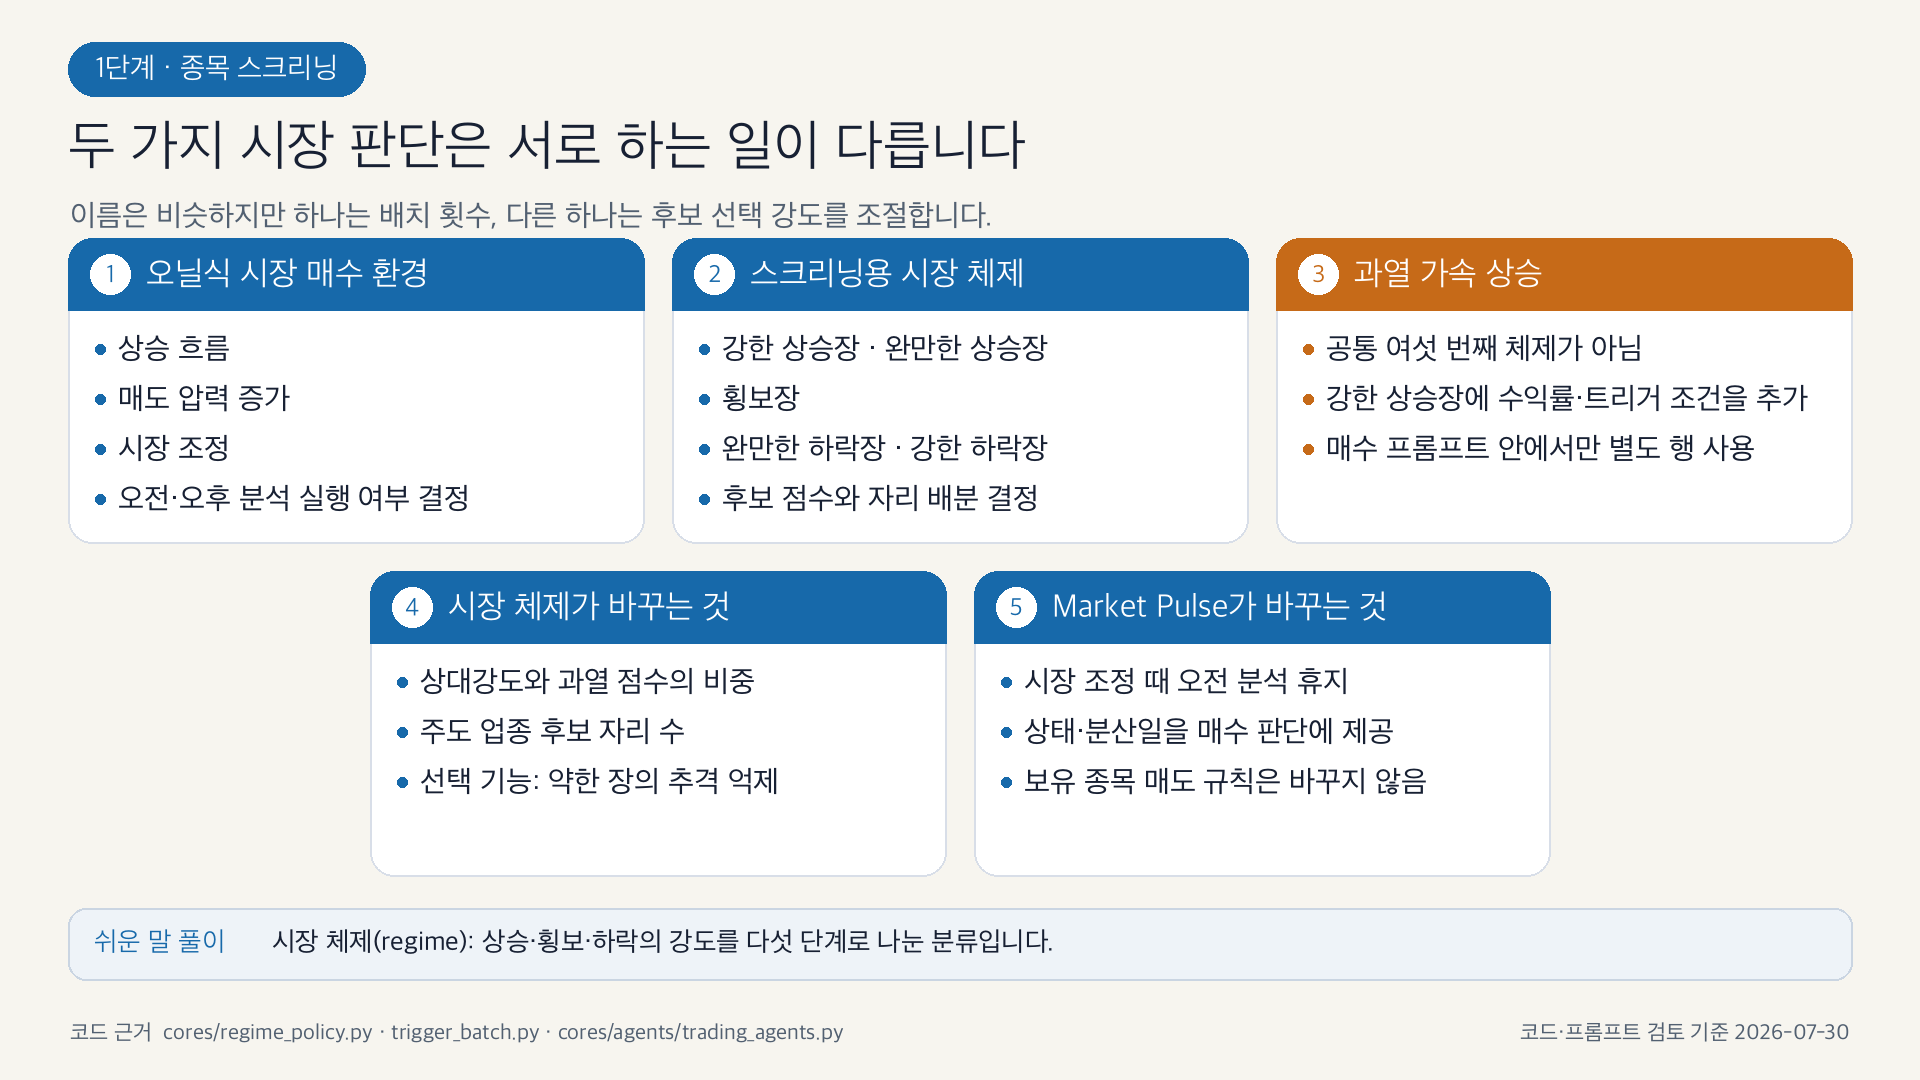
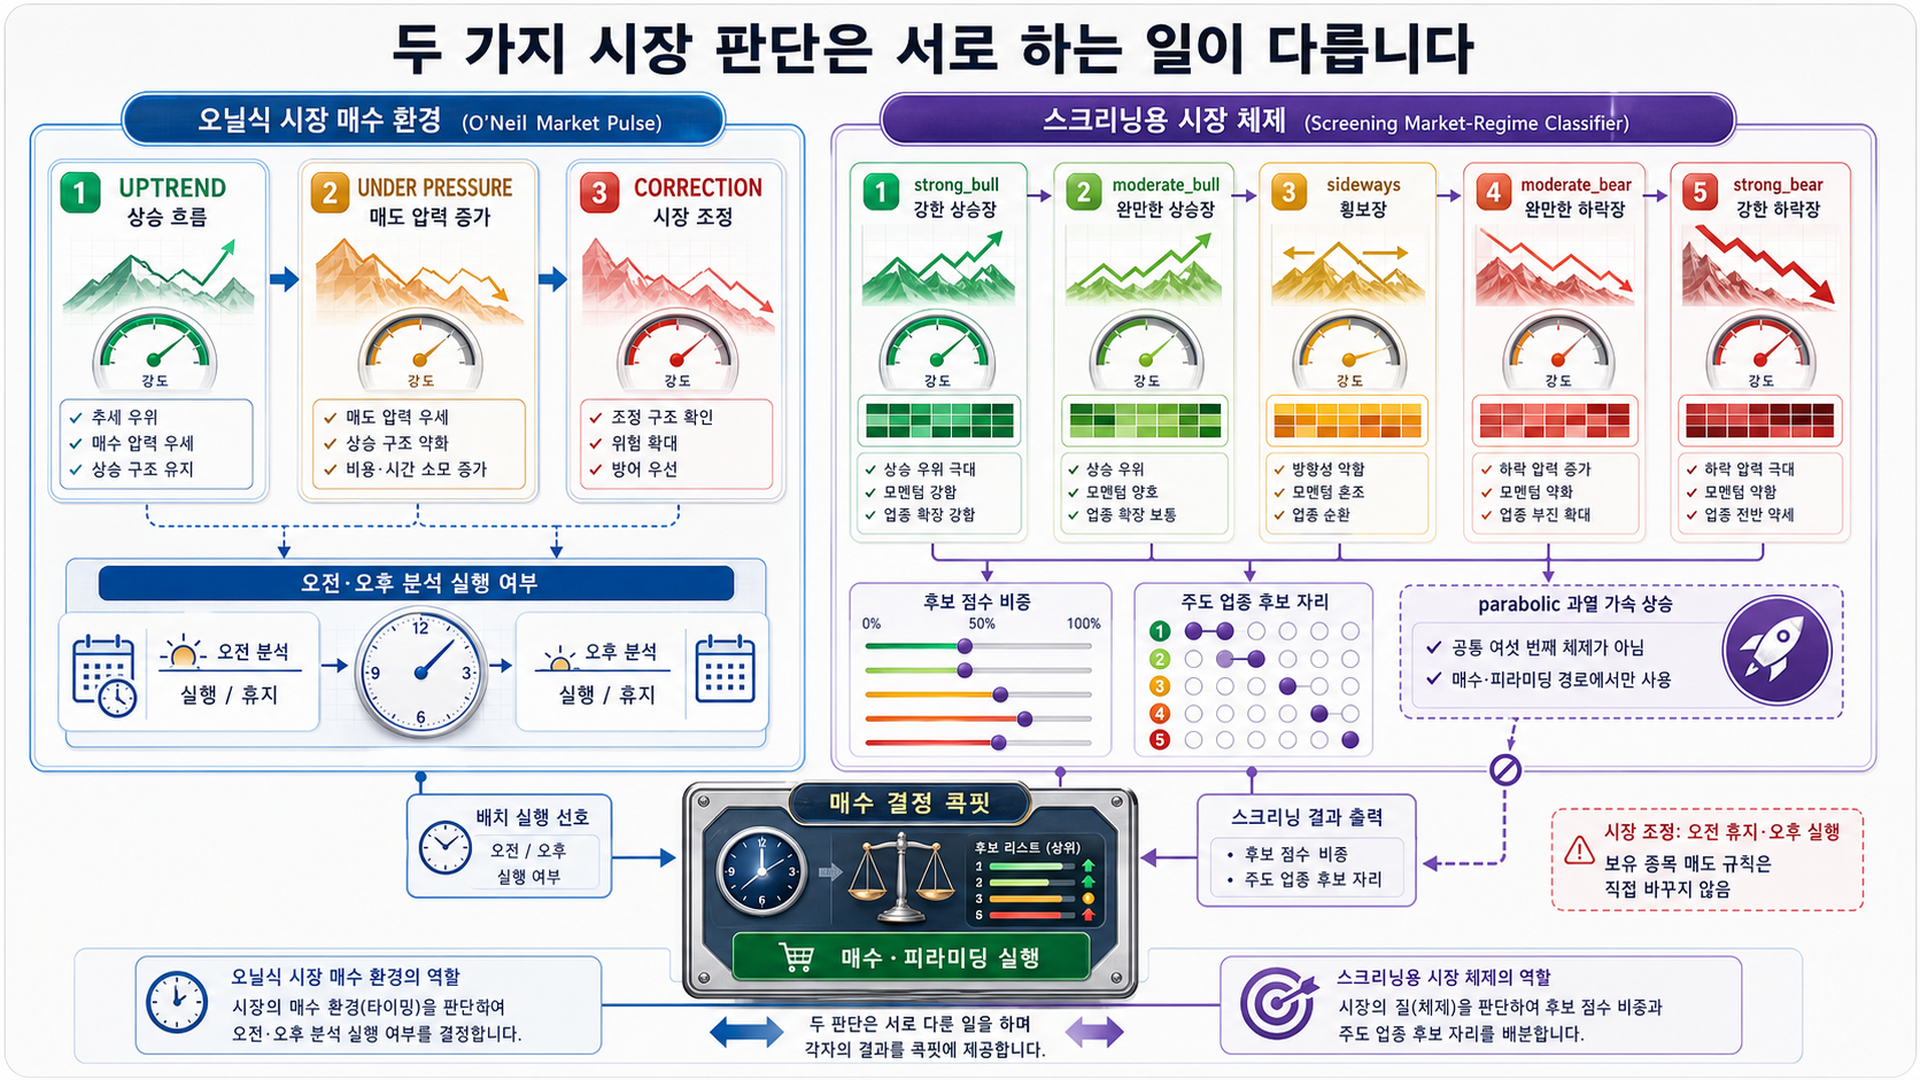
Restore the architecture guide's infographic depth
Rebuild all fourteen pipeline diagrams as bright, high-density image-model infographics while preserving the code-audited Korean facts. Separate deterministic audit drafts from production artwork so a local renderer cannot silently replace the final assets again.

Constraint: Final documentation assets must remain PNG-only, bright, legible to older investors, and consistent with current code and prompts.

Rejected: Deterministic card renderer as production artwork | it preserves text but collapses the requested visual storytelling into slide-like panels.

Confidence: high

Scope-risk: moderate

Reversibility: clean

Directive: Do not point the audit-draft renderer at docs/images/architecture; update facts before targeted image edits.

Tested: Ruff; 6 architecture asset tests; 182 KR policy/journal tests; 52 US prompt tests; 59 screening checks; manual Full HD visual inspection.

Not-tested: Printed-paper color reproduction across physical printers.

diff --git a/tools/generate_pipeline_architecture_pngs.py b/tools/generate_pipeline_architecture_pngs.py
@@ -1,13 +1,16 @@
 #!/usr/bin/env python3
-"""Render the Korean pipeline architecture diagrams as deterministic PNG files.
+"""Render low-fidelity audit drafts for the Korean pipeline architecture.
 
 The diagrams deliberately keep all copy in Python data structures.  Tests can
 therefore audit terminology and unsupported claims before the text is rasterised.
-No SVG intermediate or output is produced.
+The production infographics under ``docs/images/architecture`` are separately
+art-directed raster assets; this tool must not overwrite them.  No SVG
+intermediate or output is produced.
 """
 
 from __future__ import annotations
 
+import argparse
 from dataclasses import dataclass
 from pathlib import Path
 from PIL import Image, ImageDraw, ImageFont
@@ -471,15 +474,25 @@ def render_diagram(spec: DiagramSpec, output_path: Path) -> Path:
 
 
 def render_all(output_dir: Path) -> list[Path]:
+    """Render deterministic audit drafts into an explicitly chosen directory."""
     return [render_diagram(spec, output_dir / spec.filename) for spec in build_diagrams()]
 
 
-def _default_output_dir() -> Path:
-    return Path(__file__).resolve().parents[1] / "docs" / "images" / "architecture"
-
-
 def main() -> None:
-    paths = render_all(_default_output_dir())
+    parser = argparse.ArgumentParser(
+        description=(
+            "코드와 대조할 저해상도 설계 초안을 생성합니다. "
+            "docs/images/architecture의 최종 인포그래픽을 출력 경로로 지정하지 마십시오."
+        )
+    )
+    parser.add_argument(
+        "--output-dir",
+        type=Path,
+        required=True,
+        help="초안 PNG를 저장할 별도 디렉터리",
+    )
+    args = parser.parse_args()
+    paths = render_all(args.output_dir)
     for path in paths:
         print(path)
 

diff --git a/tests/test_pipeline_architecture_pngs.py b/tests/test_pipeline_architecture_pngs.py
@@ -51,6 +51,21 @@ def test_render_all_creates_full_hd_png_files(tmp_path: Path, width: int, height
             assert image.mode in {"RGB", "RGBA"}
 
 
+def test_committed_infographics_are_rich_full_hd_png_assets():
+    from PIL import Image
+
+    asset_dir = (
+        Path(__file__).resolve().parents[1] / "docs" / "images" / "architecture"
+    )
+    for filename in EXPECTED_FILENAMES:
+        path = asset_dir / filename
+        assert path.stat().st_size > 1_000_000
+        with Image.open(path) as image:
+            assert image.format == "PNG"
+            assert image.size == (1920, 1080)
+            assert image.mode in {"RGB", "RGBA"}
+
+
 def _diagram_text(diagram) -> str:
     card_text = [
         piece

diff --git a/docs/images/architecture/README.md b/docs/images/architecture/README.md
@@ -1,0 +1,33 @@
+# 파이프라인 아키텍처 이미지 관리 안내
+
+이 디렉터리의 PNG 14장은 일반 투자자가 PRISM-INSIGHT의 흐름을 쉽게
+이해하도록 만든 최종 인포그래픽입니다. 모두 밝은 배경의 16:9
+Full HD(1920×1080) 래스터 이미지이며, 단순 슬라이드 도형이 아니라 차트,
+계기판, 필터, 관문, 보호 장치 같은 시각적 비유를 이용해 구성했습니다.
+
+## 사실 관계의 기준
+
+그림의 문구와 수치는 다음 순서로 검증합니다.
+
+1. 실제 실행 코드와 설정
+2. 에이전트 프롬프트
+3. `tools/generate_pipeline_architecture_pngs.py`의 검증용 텍스트 명세
+4. `docs/PIPELINE_ARCHITECTURE_ko.md`의 본문 설명
+
+이미지 모델은 시각 구성에 사용했으며, 상태 이름·임계값·가중치·실행
+여부처럼 동작을 단정하는 내용은 코드와 대조해 수정했습니다. 그림은 교육용
+설명 자료이며 투자 수익이나 자동 학습을 보장하지 않습니다.
+
+## 수정 절차
+
+1. 코드와 프롬프트에서 근거를 다시 확인합니다.
+2. 검증용 텍스트 명세와 문서 본문을 먼저 고칩니다.
+3. 이미지 모델로 기존 그림의 구도와 시각 품질을 유지하며 필요한 부분만
+   수정합니다.
+4. 최종 PNG를 1920×1080으로 저장하고 작은 글자까지 확대 검수합니다.
+5. `pytest -q tests/test_pipeline_architecture_pngs.py`를 실행합니다.
+
+`tools/generate_pipeline_architecture_pngs.py`는 사실 관계를 빠르게 검토하기
+위한 저충실도 초안 생성기입니다. 반드시 `--output-dir`로 별도 임시
+디렉터리를 지정해야 하며, 이 디렉터리의 최종 이미지를 생성하거나
+덮어쓰는 용도로 사용하지 않습니다.
